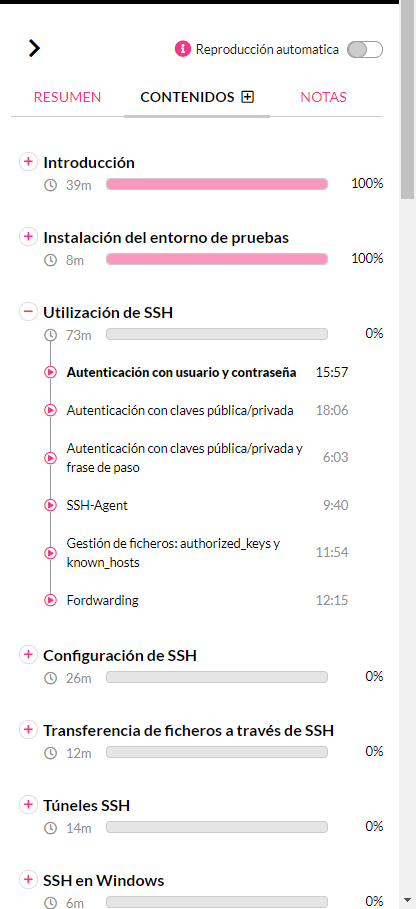
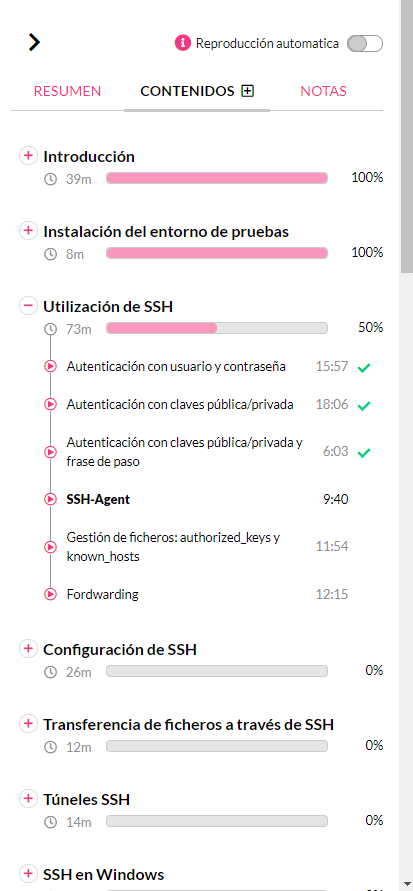
06/04/2020 16:51
3º Día
Progresion del curso de SSH.

diff --git a/README.md b/README.md
@@ -9,3 +9,8 @@
 	05/04/2020
 		-Comenzado curso de SSh.
 		-Creacion de dos maquinas virtuales (devian) para las practicas del curso.
+
+	06/04/2020
+		-Continuacion del curso de SSH.
+		-"Utilizacion de ssh"(50%).
+		-Realizacion de practica de creacion de claves privadas y publicas para la conexion por ssh.
